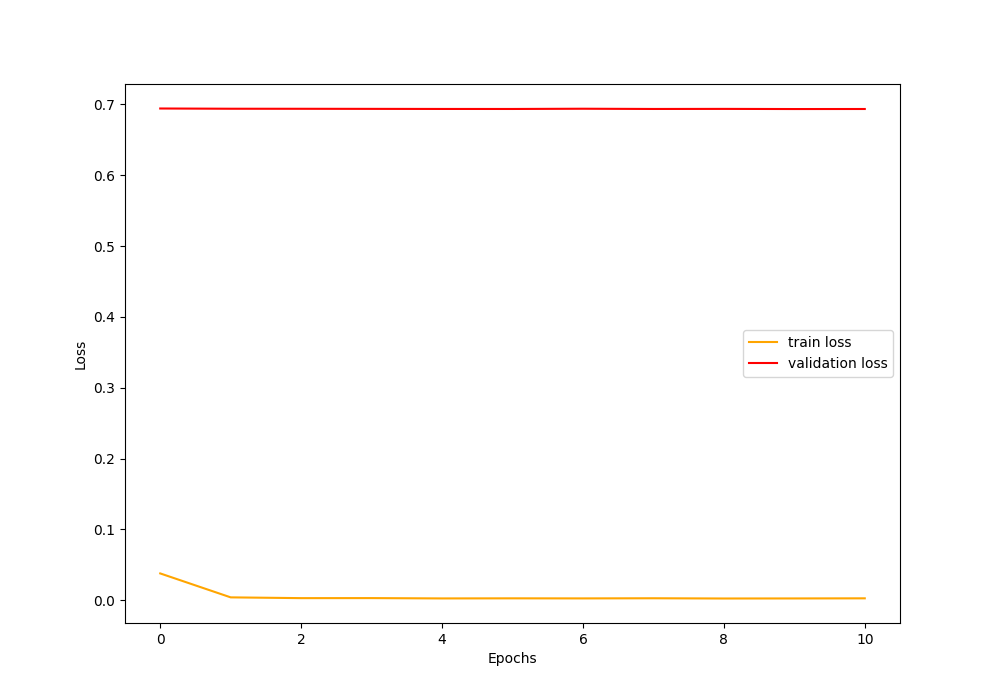
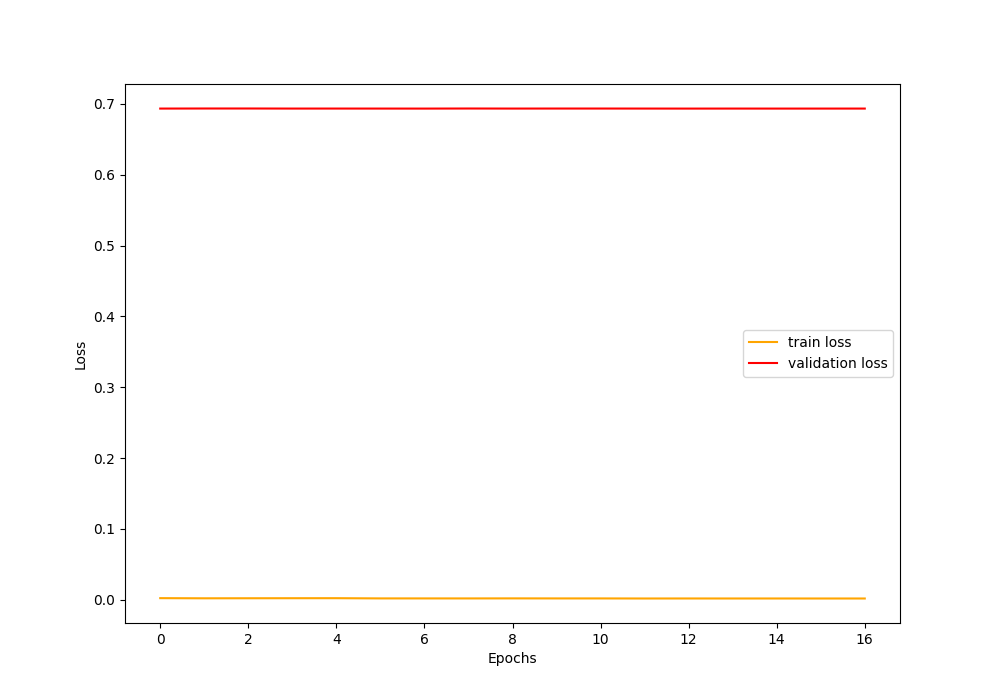
Adding

diff --git a/train_with_lard.py b/train_with_lard.py
@@ -297,21 +297,7 @@ def calculate_global_jaccard(predictions, targets, smooth=1e-6):
     return jaccard.item()
 def training_loop(epochs, model, train_loader, val_loader, device, optimizer, criterion, scheduler=None, 
                patience=10, min_delta=0.001):
-    """
-    Training loop with early stopping implementation
-    
-    Args:
-        epochs (int): Maximum number of epochs to train
-        model (nn.Module): PyTorch model to train
-        train_loader (DataLoader): Training data loader
-        val_loader (DataLoader): Validation data loader
-        device (torch.device): Device to train on
-        optimizer (torch.optim): Optimizer
-        criterion (nn.Module): Loss function
-        scheduler (torch.optim.lr_scheduler): Learning rate scheduler (optional)
-        patience (int): Number of epochs to wait for improvement before stopping
-        min_delta (float): Minimum change in monitored quantity to qualify as improvement
-    """
+
     train_loss_history = []
     valid_loss_history = []
     dice_history = []
@@ -404,7 +390,7 @@ def training_loop(epochs, model, train_loader, val_loader, device, optimizer, cr
     return model, train_loss_history, valid_loss_history, dice_history, iou_history
 
 def loss_plot(train_loss, valid_loss, dice_history=None, iou_history=None):
-    """Plotting and saving training and validation loss curves with metrics."""
+ 
     if dice_history is not None and iou_history is not None:
 
         fig, (ax1, ax2) = plt.subplots(1, 2, figsize=(15, 6))

diff --git a/onnx_convert.py b/onnx_convert.py
@@ -11,7 +11,7 @@ model = ERFE(num_seg_classes=NUM_SEG_CLASSES, num_line_classes=NUM_LINE_CLASSES)
 # model.load_state_dict(torch.load('checkpoints/best_model.pth', map_location=DEVICE))
 
 checkpoint = torch.load('checkpoints/runway_seg_epoch_6_loss_0.693_dice_0.909_iou_0.833.pth', map_location=DEVICE)
-model.load_state_dict(checkpoint['model_state_dict'])  # Extract just the model part
+model.load_state_dict(checkpoint['model_state_dict'])  
 model.eval()
 
 
